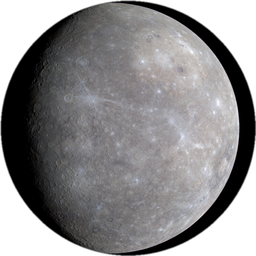
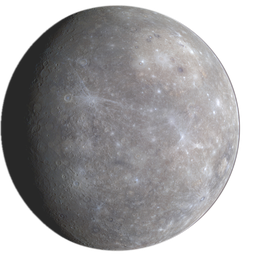
Astros sin aro negro: fotos recortadas al disco real (v5), cache v131

Changed region(s): [[0.0, 0.0, 1.0, 1.0]]

diff --git a/js/natal-chart.js b/js/natal-chart.js
@@ -205,7 +205,7 @@
   // Cloudflare guarda los assets 4 horas en el borde. Sin una marca en la URL
   // se puede regenerar una textura, desplegarla, y seguir viendo la vieja
   // media tarde. SÚBELO cada vez que cambie cualquier PNG de esa carpeta.
-  var _texVer = '?v=4';   // v4 = 2/sep: Saturno 2.05x con pluma (anillos sin corte)   // v3 = 7/ago: Saturno recortado a 1.20x (antes 1.35)
+  var _texVer = '?v=5';   // v5 = 10/nov: fuera el aro negro del Sol y el filo oscuro de los demás (preparar_texturas_web.py)   // v4 = 2/sep: Saturno 2.05x con pluma (anillos sin corte)   // v3 = 7/ago: Saturno recortado a 1.20x (antes 1.35)
   // Oyentes de "ya cargó una textura". El módulo NO se repinta solo: si lo
   // hiciera tendría que reusar las opciones del render anterior, y esas
   // caducan (basta que la ventana cambie de tamaño para que el lienzo se

diff --git a/sw.js b/sw.js
@@ -541,7 +541,7 @@
 // v128 → v129 (Nov 6): el SW ya no intercepta otros dominios (imágenes de R2 en blanco en la app).
 // v129 → v130 (Nov 6): QA — Plus se reconoce en marca de agua y capa de casas, nada de /planes (Stripe) en la app,
 // capas sobre la barra y con «atrás», pestaña activa en /mi-dia, login sin redirecciones a otros sitios.
-const CACHE_NAME = 'luzestelar-v130';
+const CACHE_NAME = 'luzestelar-v131';
 const OFFLINE_URL = '/offline.html';
 // English readers used to fall back to the Spanish offline page — it is the
 // fallback for the whole site, so /en/ visitors got "Sin conexión".
